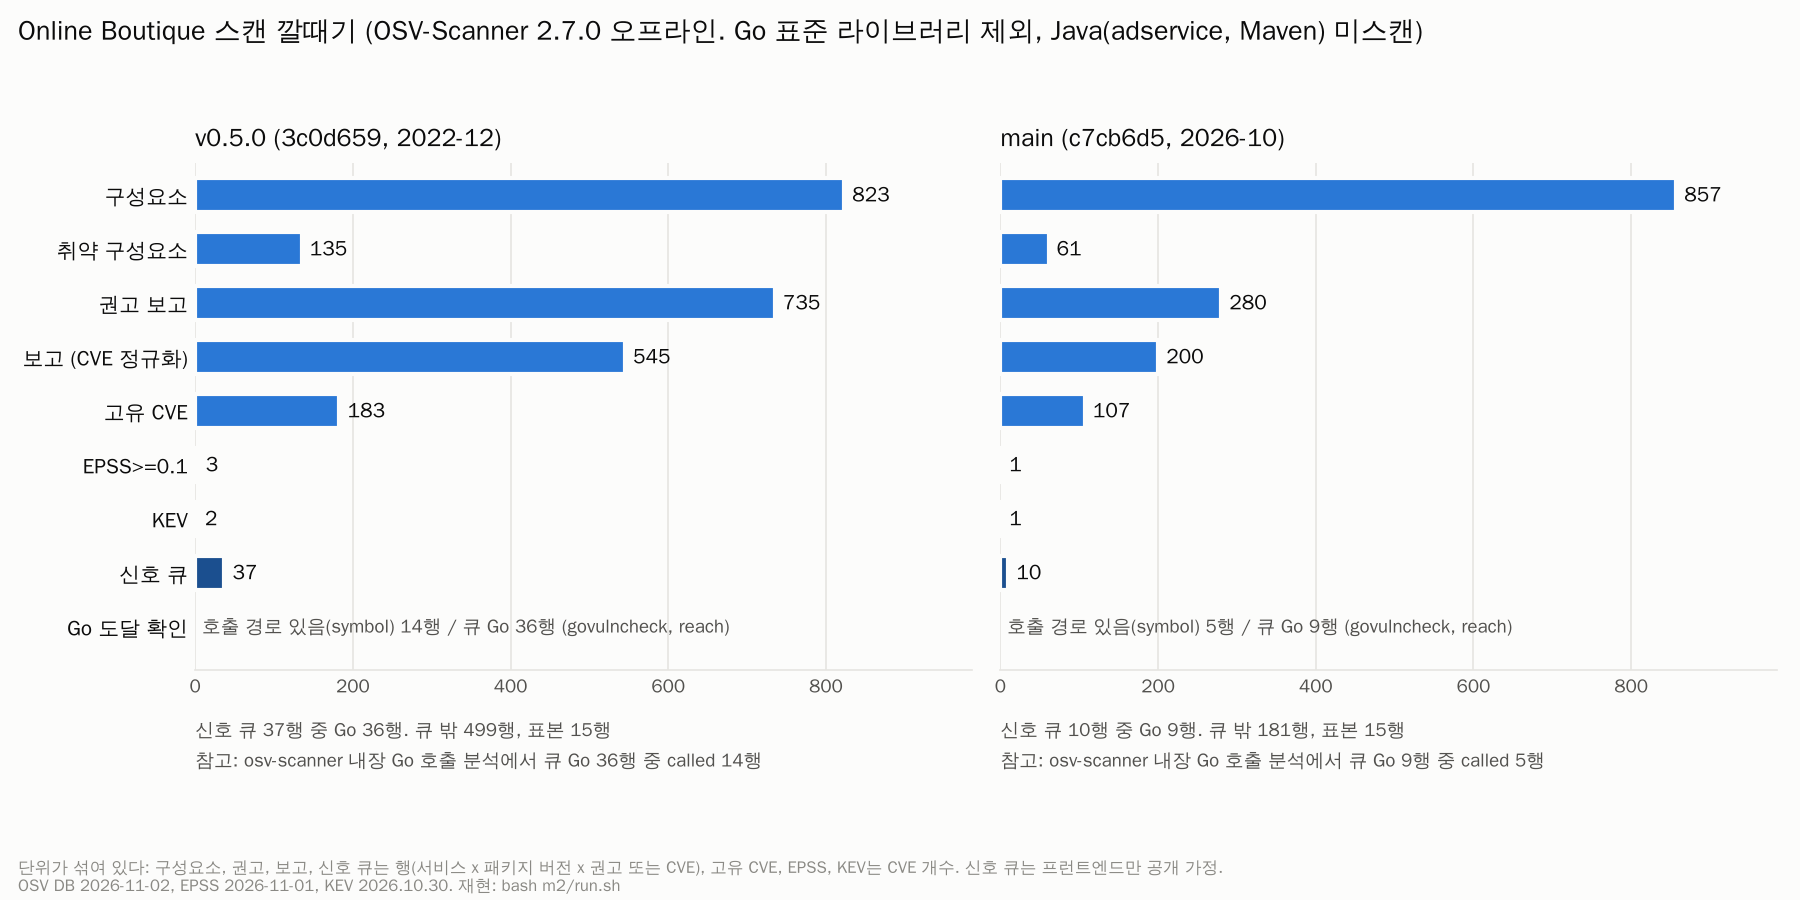
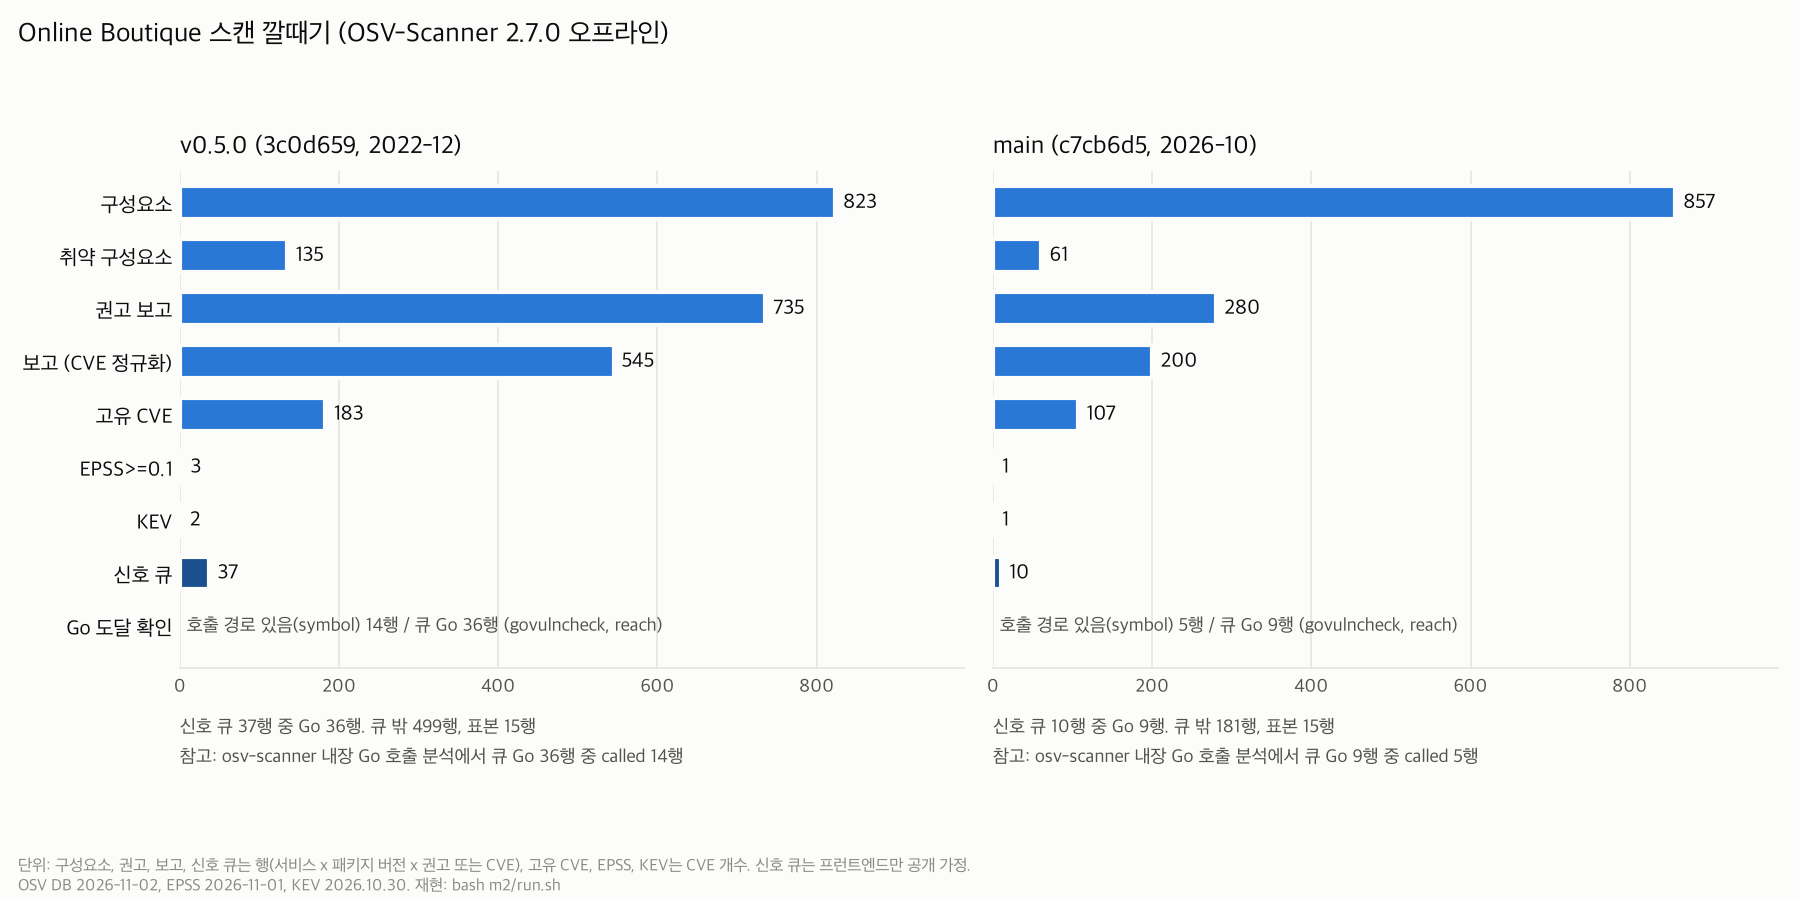
그림 문구: 제출용 부록에 맞춰 설명 문장 정리(수치 변경 없음)

diff --git a/lotte/innovate/agent/figs.py b/lotte/innovate/agent/figs.py
@@ -50,7 +50,7 @@ def arch() -> Path:
     ax.set_ylim(0, 6.6)
     ax.axis("off")
     ax.text(0.15, 6.35, "SW 공급망 스캐닝 프로토타입 구조 (Online Boutique v0.5.0, 오프라인 DB)", fontsize=12, color=INK, weight="bold")
-    ax.text(0.15, 6.05, "파랑 = LLM(Claude Sonnet 5.5, 설정 한 줄로 교체)   주황 = 사람 승인 자리(이번 실행은 --auto-approve, 실제 사람 승인 0건)   회색 = 코드   점선 = 본 흐름에 없음",
+    ax.text(0.15, 6.05, "파랑 = LLM(Claude Sonnet 5.5, 설정 한 줄로 교체)   주황 = 사람 승인 단계(needs_approval)   회색 = 코드   점선 = 별도 평가 모듈",
             fontsize=8.5, color=INK2)
     # 1행: 스캔 깔때기 (M2, 도달성)
     y1, h = 4.55, 0.95
@@ -62,7 +62,7 @@ def arch() -> Path:
         if i:
             arrow(ax, xs[i - 1] + 1.8, y1 + h / 2, x, y1 + h / 2)
     # 영향도 판정 (설계만)
-    box(ax, 8.15, 3.05, 4.2, 0.9, "영향도 판정 에이전트 + 근거 검사 + not_affected 사람 승인\n(기획안 5절 7~9번. 본 흐름에는 없음.\nVEX-Bench Go 8건 시범만 따로 돌림)", "plan", dashed=True, size=8)
+    box(ax, 8.15, 3.05, 4.2, 0.9, "영향도 판정 에이전트 + 근거 검사 + not_affected 사람 승인\n(기획안 5절 7~9번.\nVEX-Bench Go 8건 x 3회로 따로 평가)", "plan", dashed=True, size=8)
     arrow(ax, 9.05, y1, 9.05, 3.95, color=MUTED)
     # 2행: 조치안 루프 (agent/)
     y2 = 1.55
@@ -71,7 +71,7 @@ def arch() -> Path:
     box(ax, 4.75, y2, 1.7, h, "출력 가드레일\n후보 밖 버전 차단")
     box(ax, 6.85, y2, 2.0, h, "기계 판정\ngo get, tidy, build,\ntest, 재스캔")
     box(ax, 9.25, y2, 1.4, h, "PR 제목 (LLM)\nopen_fix_pr\n본문, 패치는 코드", "llm", size=7.5)
-    box(ax, 11.0, y2, 1.35, h, "사람 승인 자리\nneeds_approval\n(--auto-approve,\n실제 승인 0건)", "human", size=7.5)
+    box(ax, 11.0, y2, 1.35, h, "사람 승인 단계\nneeds_approval", "human", size=7.5)
     arrow(ax, 1.95, y2 + h / 2, 2.35, y2 + h / 2)
     arrow(ax, 4.35, y2 + h / 2, 4.75, y2 + h / 2)
     arrow(ax, 6.45, y2 + h / 2, 6.85, y2 + h / 2)
@@ -85,7 +85,7 @@ def arch() -> Path:
     ax.text(0.2, 3.35, "신호 큐의 (서비스, 모듈, 권고 묶음)\n-> 조치 사례", fontsize=7.5, color=INK2)
     ax.text(0.15, 0.1, "트레이스는 OpenAI로 내보내지 않고 로컬 JSONL에만 저장(set_trace_processors). "
             "LLM에 KEV, EPSS 값은 주지 않는다. 키는 LAB_ANTHROPIC_API_KEY 로만 받고 출력하지 않는다.", fontsize=7.5, color=INK2)
-    ax.text(0.15, -0.15, "네트워크 차단(unshare -n)을 증명한 것은 govulncheck와 M2 주 스캔뿐이다. 조치안 판정(go get)과 LLM 호출은 네트워크를 쓴다.", fontsize=7.5, color=INK2)
+    ax.text(0.15, -0.15, "govulncheck와 M2 주 스캔은 네트워크 차단(unshare -n) 상태에서 실행해 오프라인 재현성을 확인했다.", fontsize=7.5, color=INK2)
     FIGS.mkdir(parents=True, exist_ok=True)
     out = FIGS / "arch.png"
     fig.savefig(out, facecolor=SURF, bbox_inches="tight")
@@ -135,7 +135,7 @@ def results(run_ids: list[str]) -> Path:
     ax.legend(frameon=False, fontsize=8.5, loc="upper left", ncol=3)
     costs = {r["policy"]: float(r["cost_usd_per_case"]) for r in rows if r["model"] != "none"}
     note = ("건당 LLM 비용(Sonnet 5.5 공식 단가): " + ", ".join(f"{names.get(k, k).splitlines()[0]} \\${v:.3f}" for k, v in costs.items())
-            + ".  모든 정책이 실패한 4건은 otel 계열(C03, C04, C09, C10): 시도한 조합은 앱 코드 수정이 필요하거나(시도한 범위, 전수 탐색 아님) 새 HIGH 권고를 끌어왔다.")
+            + ".  otel 계열 4건(C03, C04, C09, C10)은 앱 코드 수정이 필요하거나 새 HIGH 권고를 끌어오는 조합이라 검증 단계(빌드, 테스트, 재스캔)가 자동 반영을 막았다.")
     fig.text(0.01, -0.07, note, fontsize=7.8, color=INK2, ha="left", va="top")
     out = FIGS / "agent_results.png"
     fig.savefig(out, facecolor=SURF, bbox_inches="tight")

diff --git a/lotte/innovate/m2/figs.py b/lotte/innovate/m2/figs.py
@@ -69,10 +69,10 @@ def main() -> None:
                 fontsize=9, color=INK2, transform=ax.transAxes)
     axes[0].set_yticks(y)
     axes[0].set_yticklabels(labels, fontsize=10, color=INK)
-    fig.suptitle("Online Boutique 스캔 깔때기 (OSV-Scanner 2.7.0 오프라인. Go 표준 라이브러리 제외, Java(adservice, Maven) 미스캔)",
+    fig.suptitle("Online Boutique 스캔 깔때기 (OSV-Scanner 2.7.0 오프라인)",
                  x=0.01, ha="left", fontsize=13, color=INK)
     fig.text(0.01, 0.01,
-             "단위가 섞여 있다: 구성요소, 권고, 보고, 신호 큐는 행(서비스 x 패키지 버전 x 권고 또는 CVE), 고유 CVE, EPSS, KEV는 CVE 개수. 신호 큐는 프런트엔드만 공개 가정.\n"
+             "단위: 구성요소, 권고, 보고, 신호 큐는 행(서비스 x 패키지 버전 x 권고 또는 CVE), 고유 CVE, EPSS, KEV는 CVE 개수. 신호 큐는 프런트엔드만 공개 가정.\n"
              "OSV DB 2026-11-02, EPSS 2026-11-01, KEV 2026.10.30. 재현: bash m2/run.sh",
              fontsize=8, color=MUTED)
     fig.tight_layout(rect=(0, 0.08, 1, 0.94))
